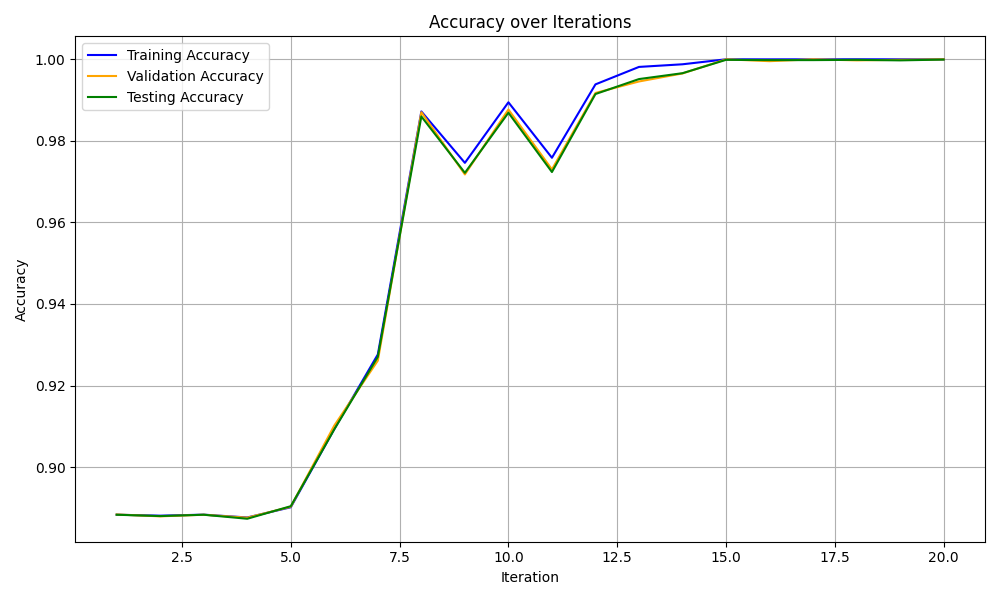
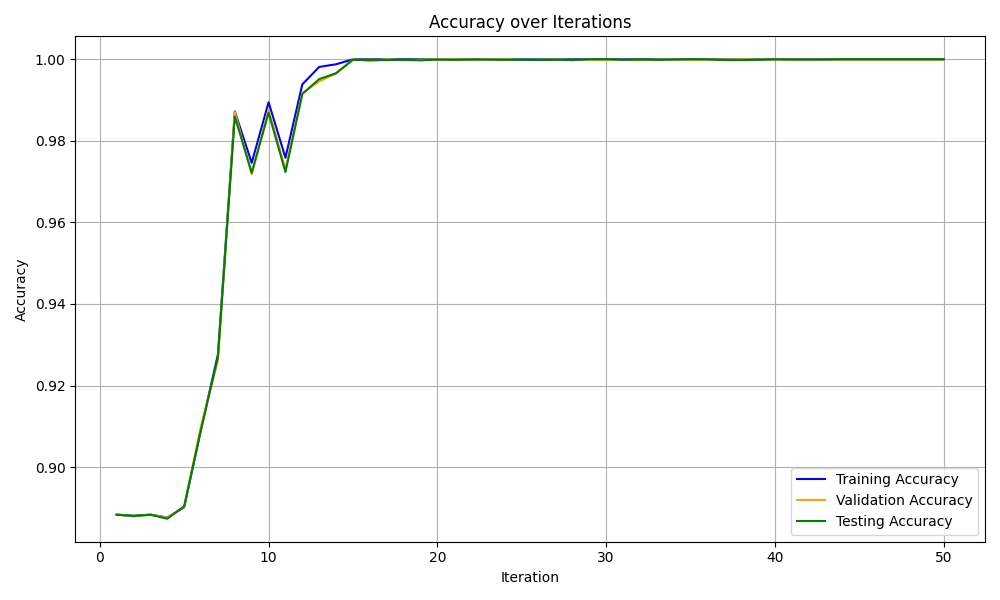
MedForest fully done with parameters .

diff --git a/mediForest.py b/mediForest.py
@@ -82,7 +82,7 @@ class mediForest():
         print("Train classes:", np.bincount(self.y_train))
         print("Val classes:", np.bincount(self.y_val))
 
-        self.plot_depth_comparison("max_depth_scores")
+        self.plot_depth_comparison("max_depth_scores", 51)
 
         # Max Depth
         max_depths = [estimator.tree_.max_depth for estimator in self.model.estimators_]
@@ -104,9 +104,9 @@ class mediForest():
         
 
 
-    def plot_depth_comparison(self, filename):
-        tr_scores, val_scores, test_scores = self.compute_scores()
-        x = list(range(1, 21))
+    def plot_depth_comparison(self, filename, end_range):
+        tr_scores, val_scores, test_scores = self.compute_scores(end_range)
+        x = list(range(1, end_range))
         plt.figure(figsize=(10, 6))
         plt.plot(x, tr_scores, label='Training Accuracy', color='blue')
         plt.plot(x, val_scores, label='Validation Accuracy', color='orange')
@@ -120,7 +120,7 @@ class mediForest():
         save_fig(plt, "tree_figs", f"{filename}.png")
 
 
-    def compute_scores(self):
+    def compute_scores(self, end_range):
 
         training_score = []
         validation_score = []
@@ -131,12 +131,12 @@ class mediForest():
         # self.n_estimator_score(training_score, validation_score, testing_score)
 
         # Max Depth Scores
-        self.max_depth_score(training_score, validation_score, testing_score)
+        self.max_depth_score(end_range, training_score, validation_score, testing_score)
 
         return training_score, validation_score, testing_score
     
-    def n_estimator_score(self, training_score, validation_score, testing_score):
-        for i in range(1, 101):
+    def n_estimator_score(self, end_range, training_score, validation_score, testing_score):
+        for i in range(1, end_range):
             print(f"Finished with iteration: {i}")
             self.model = RandomForestClassifier(n_estimators=i, random_state=self.seed)
             self.train()
@@ -145,8 +145,8 @@ class mediForest():
             testing_score.append(self.get_score(self.X_test, self.y_test))
         
 
-    def max_depth_score(self, training_score, validation_score, testing_score):
-        for i in range(1, 21):
+    def max_depth_score(self, end_range, training_score, validation_score, testing_score):
+        for i in range(1, end_range):
             print(f"Finished with iteration: {i}")
             self.model = RandomForestClassifier(n_estimators=20, random_state=self.seed, max_depth=i)
             self.train()
